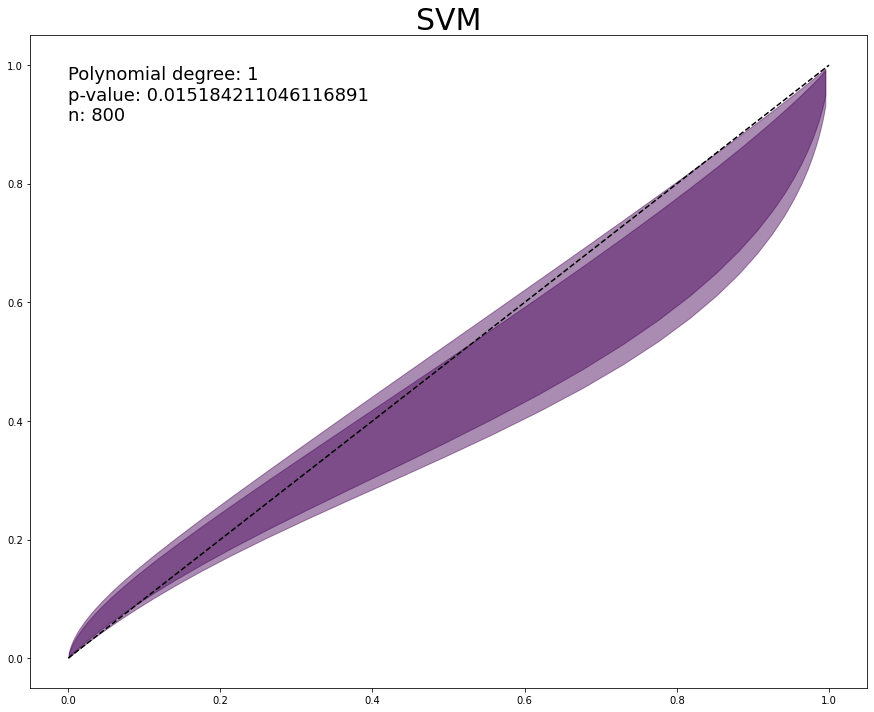
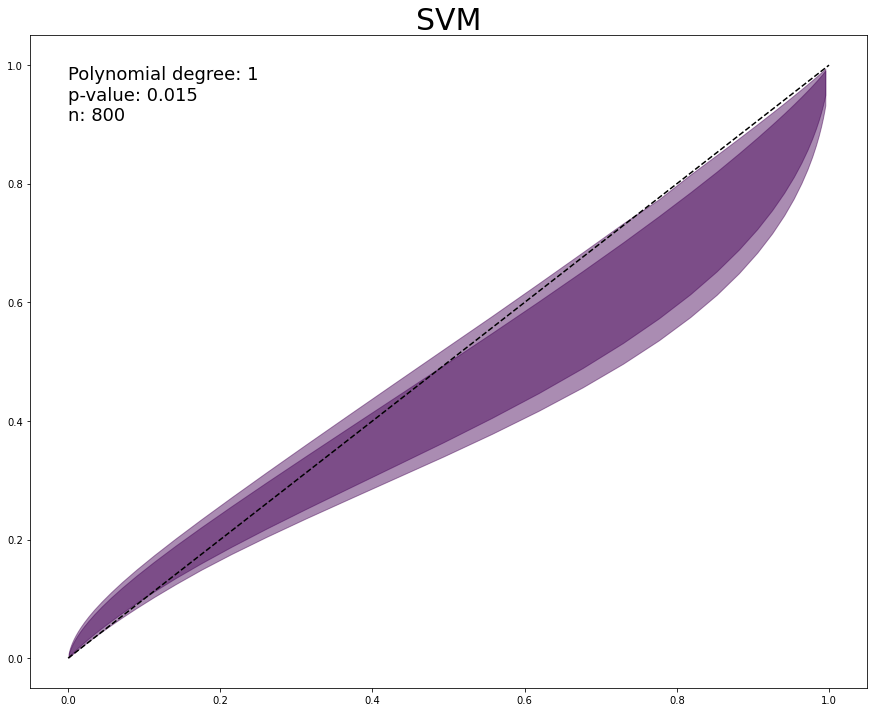
format p-value in plot. Closes #5

diff --git a/calibration.py b/calibration.py
@@ -280,7 +280,7 @@ class CalibrationBelt():
         if p_value < .001:
             p_text = "< 0.001"
         else:
-            p_text = str(p_value)
+            p_text = f"{p_value:.3f}"
 
         # Calculate boundaries for each confidence level
         for confidence in confidences:

diff --git a/README.md b/README.md
@@ -1,17 +1,12 @@
 [![Build Status](https://travis-ci.org/lbulgarelli/calibration.svg?branch=master)](https://travis-ci.org/lbulgarelli/calibration)
 
-## Calibration Belt
-#### Assessment of the calibration belt and goodness of fit of binomial models.
-
-Based on `Nattino, Giovanni, Stefano Finazzi, and Guido Bertolini. "A new calibration test and a reappraisal of the calibration belt for the assessment of prediction models based on dichotomous outcomes." Statistics in medicine 33.14 (2014): 2390-2407.`
+# Calibration Belt
+### Assessment of the calibration belt and goodness of fit of binomial models.
 
 ## Installation
 
-```Shell
-pip install calibration-belt
-```
+`pip install calibration`
 
-## Usage
 
 ```python
 import pandas as pd
@@ -22,7 +17,7 @@ import matplotlib.pyplot as plt
 %matplotlib inline  
 ```
 
-### Loading data
+## Loading data
 
 
 ```python
@@ -37,7 +32,7 @@ predictors = {
 }
 ```
 
-### CalibrationBelt object
+## CalibrationBelt object
 
 
 ```python
@@ -48,7 +43,7 @@ for key, E in predictors.items():
     belts[key] = CalibrationBelt(P, E)
 ```
 
-### Plotting the belt
+## Plotting the belt
 
 
 ```python
@@ -59,15 +54,14 @@ for model, belt in belts.items():
 ```
 
 
-
-![png](https://raw.githubusercontent.com/lbulgarelli/calibration/master/output_8_1.png)
-
+![png](output_8_1.png)
 
 
-![png](https://raw.githubusercontent.com/lbulgarelli/calibration/master/output_8_2.png)
+
+![png](output_8_2.png)
 
 
-### Calculating T-statistic and p_value
+## Calculating T-statistic and p_value
 
 
 ```python
@@ -80,7 +74,7 @@ for model, belt in belts.items():
     Model: NN , T-statistic: 31.05418 , p-value: 0.00001
 
 
-### Calculating boundaries of the belt
+## Calculating boundaries of the belt
 
 
 ```python
@@ -89,10 +83,10 @@ lower, upper = boundaries[0, 1:]
 print(f"Lower bound: {lower:.4f}, Upper bound: {upper:.4f}")
 ```
 
-    Lower bound: 0.0001, Upper bound: 0.0493
+    Lower bound: 0.0000, Upper bound: 0.0493
 
 
-### Cumulative distribution function
+## Cumulative distribution function
 
 The plot below shows the computed distribution of the T-statistic in polynomials of degree m.
 
@@ -109,4 +103,9 @@ for m in [1, 2, 3, 4]:
 ```
 
 
-![png](https://raw.githubusercontent.com/lbulgarelli/calibration/master/output_14_0.png)
+![png](output_14_0.png)
+
+
+# References
+
+Based on `Nattino, Giovanni, Stefano Finazzi, and Guido Bertolini. "A new calibration test and a reappraisal of the calibration belt for the assessment of prediction models based on dichotomous outcomes." Statistics in medicine 33.14 (2014): 2390-2407.`
